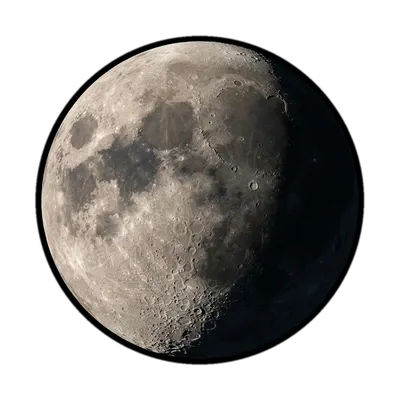
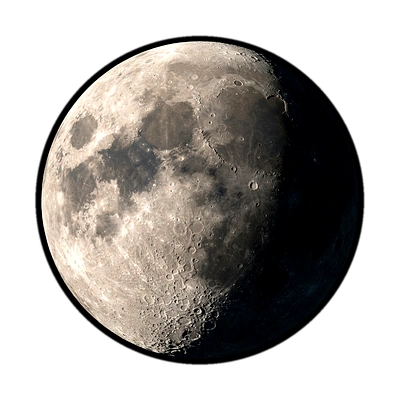
style: increase moon opacity to 0.38, enhance lunar surface detail, remove blue halo, and add neutral moonlight rim

Changed region(s): [[0.09, 0.09, 0.66, 0.9], [0.63, 0.45, 0.66, 0.48]]

diff --git a/style.css b/style.css
@@ -448,14 +448,14 @@ body::before {
 
 .experience-moon {
   position: absolute;
-  width: clamp(360px, 32vw, 620px);
-  height: clamp(360px, 32vw, 620px);
-  right: clamp(-360px, -16vw, -150px);
-  top: 18%;
-  opacity: 0.16;
+  width: clamp(380px, 34vw, 620px);
+  height: clamp(380px, 34vw, 620px);
+  right: clamp(-320px, -15vw, -130px);
+  top: 14%;
+  opacity: 0.38;
   pointer-events: none;
   z-index: 0;
-  transition: opacity 0.4s ease;
+  transition: opacity 0.3s ease;
 }
 
 .experience-moon .moon-img {
@@ -463,29 +463,16 @@ body::before {
   height: 100%;
   object-fit: contain;
   user-select: none;
-  filter: drop-shadow(0 0 50px rgba(226, 232, 240, 0.15));
-}
-
-.experience-moon .moon-glow {
-  position: absolute;
-  top: 50%;
-  left: 32%;
-  transform: translate(-50%, -50%);
-  width: 95%;
-  height: 95%;
-  border-radius: 50%;
-  background: radial-gradient(circle, rgba(56, 189, 248, 0.08) 0%, rgba(226, 232, 240, 0.04) 45%, transparent 70%);
-  filter: blur(50px);
-  pointer-events: none;
+  filter: drop-shadow(-8px 0 24px rgba(226, 232, 240, 0.12));
 }
 
 @media (max-width: 992px) {
   .experience-moon {
-    width: clamp(280px, 30vw, 420px);
-    height: clamp(280px, 30vw, 420px);
-    right: -200px;
-    top: 22%;
-    opacity: 0.12;
+    width: clamp(290px, 32vw, 440px);
+    height: clamp(290px, 32vw, 440px);
+    right: -180px;
+    top: 18%;
+    opacity: 0.28;
   }
 }
 

diff --git a/index.html b/index.html
@@ -8,7 +8,7 @@
   <link rel="preconnect" href="https://fonts.googleapis.com">
   <link rel="preconnect" href="https://fonts.gstatic.com" crossorigin>
   <link href="https://fonts.googleapis.com/css2?family=Space+Grotesk:wght@300;400;500;600;700&family=Inter:wght@300;400;500;600&family=Space+Mono:ital,wght@0,400;0,700&display=swap" rel="stylesheet">
-  <link rel="stylesheet" href="style.css?v=4.0">
+  <link rel="stylesheet" href="style.css?v=4.5">
 </head>
 <body>
 
@@ -169,13 +169,12 @@
 
   <!-- EXPERIENCE -->
   <section id="experience" class="section experience-section reveal">
-    <!-- Atmospheric Experience Moon entering from right edge -->
+    <!-- Atmospheric Realistic Moon emerging from right edge -->
     <div class="experience-moon" aria-hidden="true" data-parallax="0.03">
       <picture>
         <source srcset="assets/distant_moon.webp" type="image/webp">
         <img src="assets/distant_moon.png" alt="" class="moon-img" draggable="false" loading="lazy">
       </picture>
-      <div class="moon-glow"></div>
     </div>
 
     <div class="section-content">
@@ -547,6 +546,6 @@
     </div>
   </footer>
 
-  <script src="script.js?v=4.0"></script>
+  <script src="script.js?v=4.5"></script>
 </body>
 </html>
